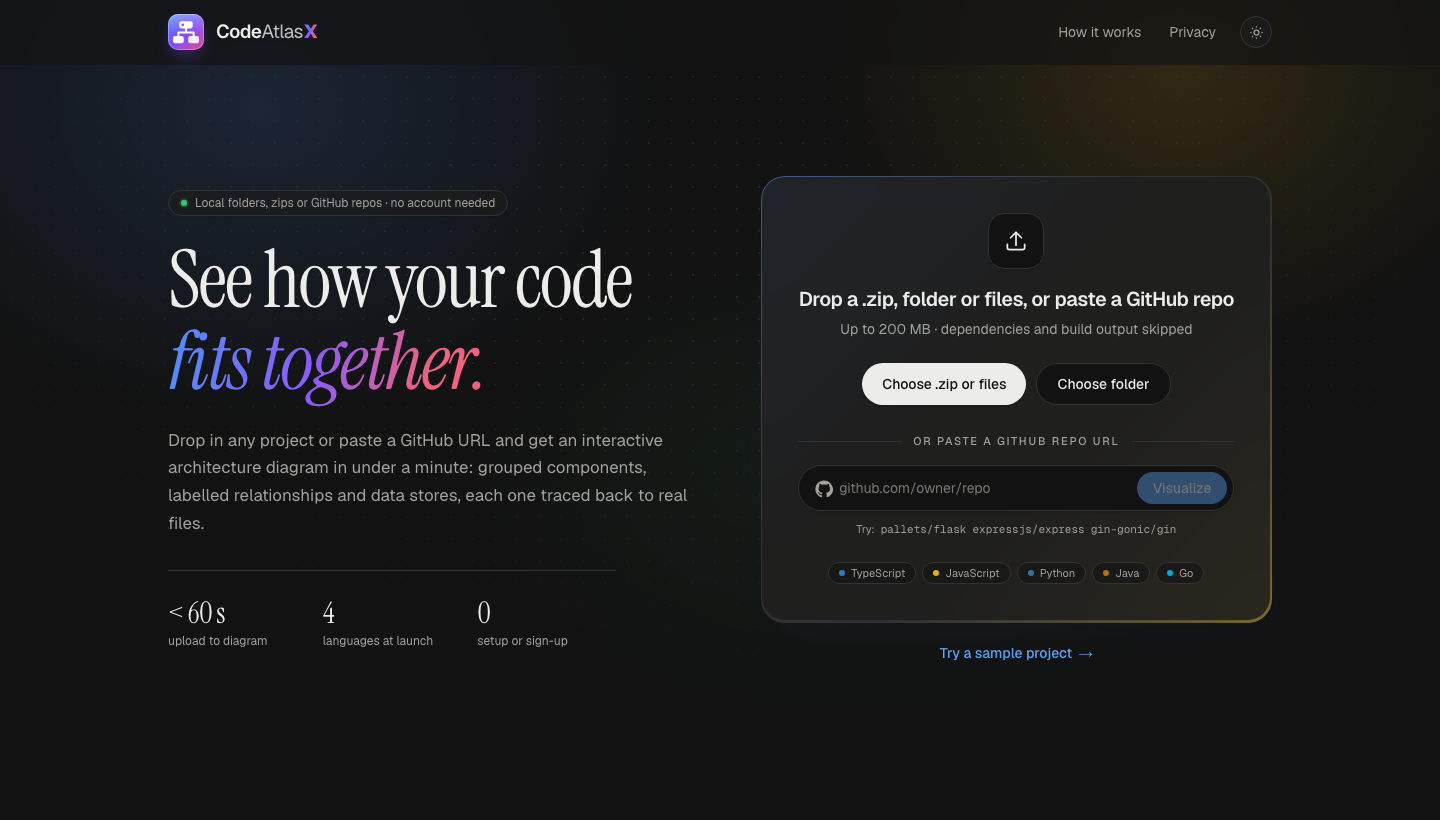
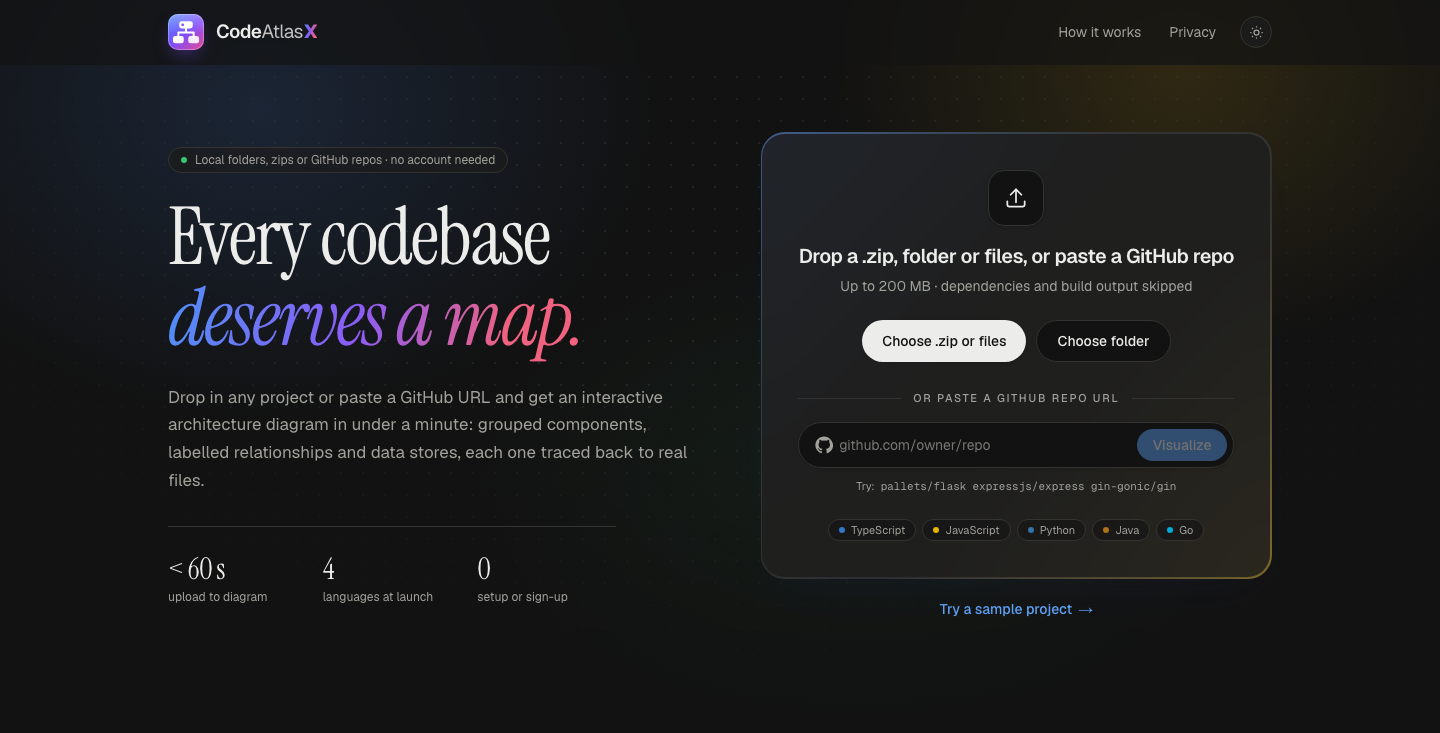
New headline: Every codebase deserves a map
Updates the hero, page/link-preview title, preview image and alt text,
README tagline and screenshots.

diff --git a/src/app/layout.tsx b/src/app/layout.tsx
@@ -21,7 +21,7 @@ const geistMono = Geist_Mono({
 });
 
 const SITE_URL = process.env.NEXT_PUBLIC_SITE_URL ?? "https://codeatlasx.vercel.app";
-const TITLE = "CodeAtlasX: See how your code fits together";
+const TITLE = "CodeAtlasX: Every codebase deserves a map";
 const DESCRIPTION =
   "Turn any codebase into an interactive architecture diagram in under a minute. Drop a zip or folder, or paste a GitHub URL, and get grouped components, labelled relationships and data stores, each traced back to real files. Free, no sign-up.";
 

diff --git a/src/components/Landing.tsx b/src/components/Landing.tsx
@@ -43,9 +43,9 @@ export function Landing({
             className="fade-up mx-auto mt-6 max-w-4xl font-display text-[3.3rem] leading-[1.02] tracking-tight sm:text-[4.4rem] lg:mx-0 xl:text-[5rem]"
             style={{ animationDelay: "60ms" }}
           >
-            See how your code
+            Every codebase
             <br />
-            <em className="hero-gradient pr-2">fits together.</em>
+            <em className="hero-gradient pr-2">deserves a map.</em>
           </h1>
 
           <p

diff --git a/README.md b/README.md
@@ -4,7 +4,7 @@
 
 # CodeAtlasX
 
-### See how your code *fits together.*
+### Every codebase *deserves a map.*
 
 Drop in a project, or paste a GitHub URL, and get an **interactive architecture diagram in under a minute**: grouped components, labelled relationships and data stores, each one traced back to real files.
 
